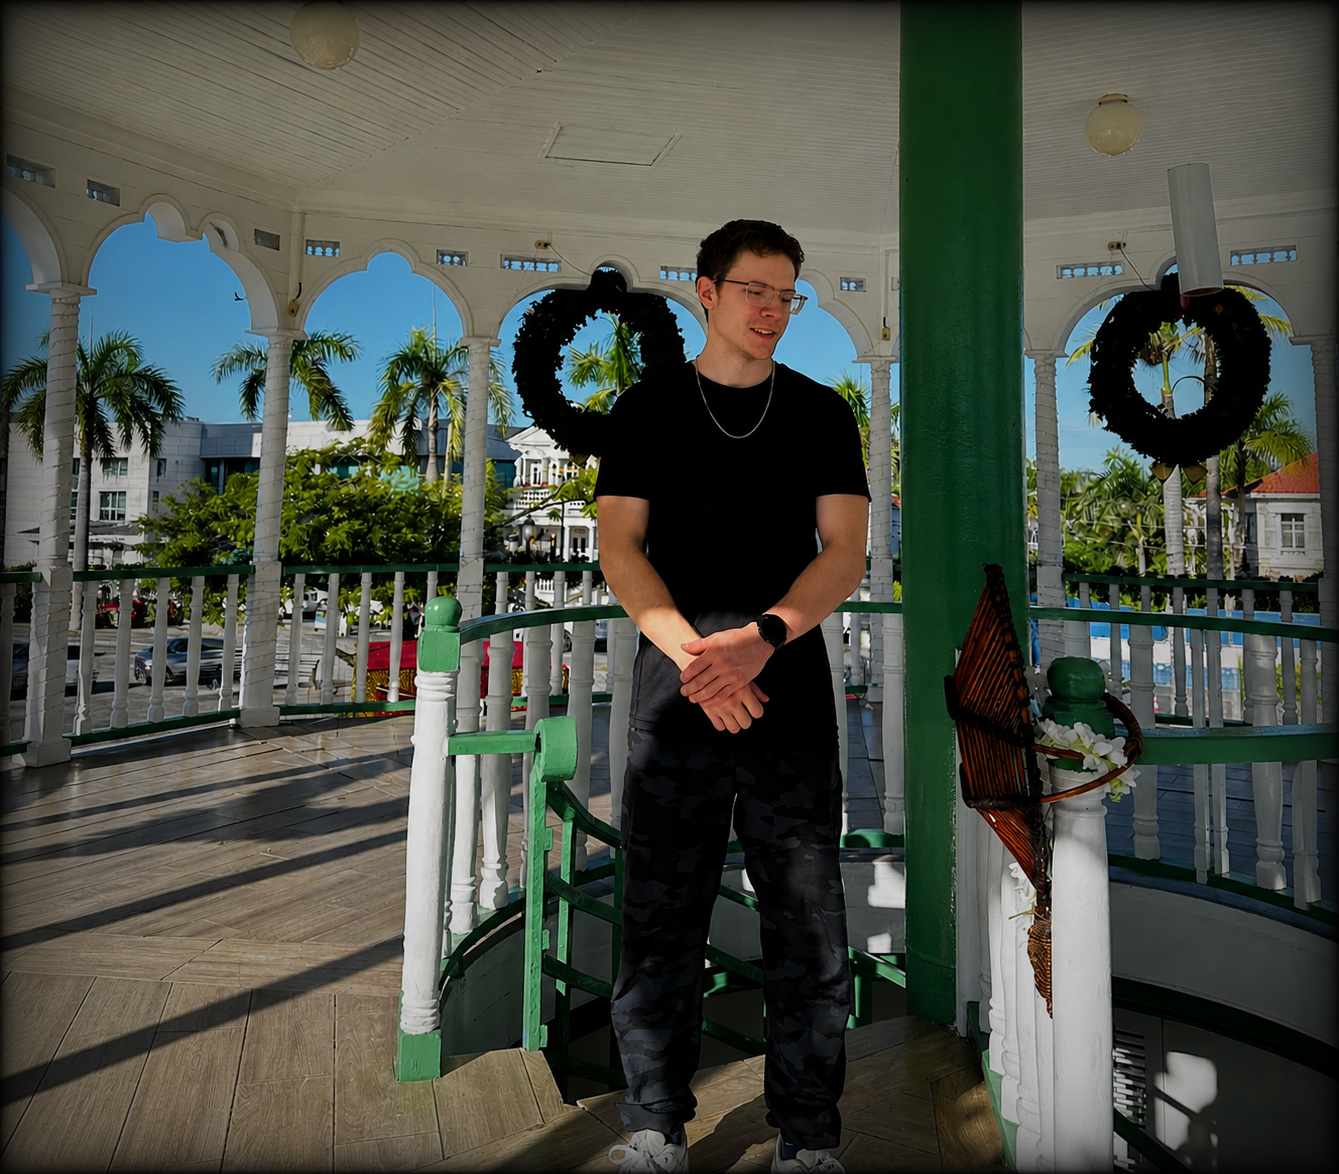
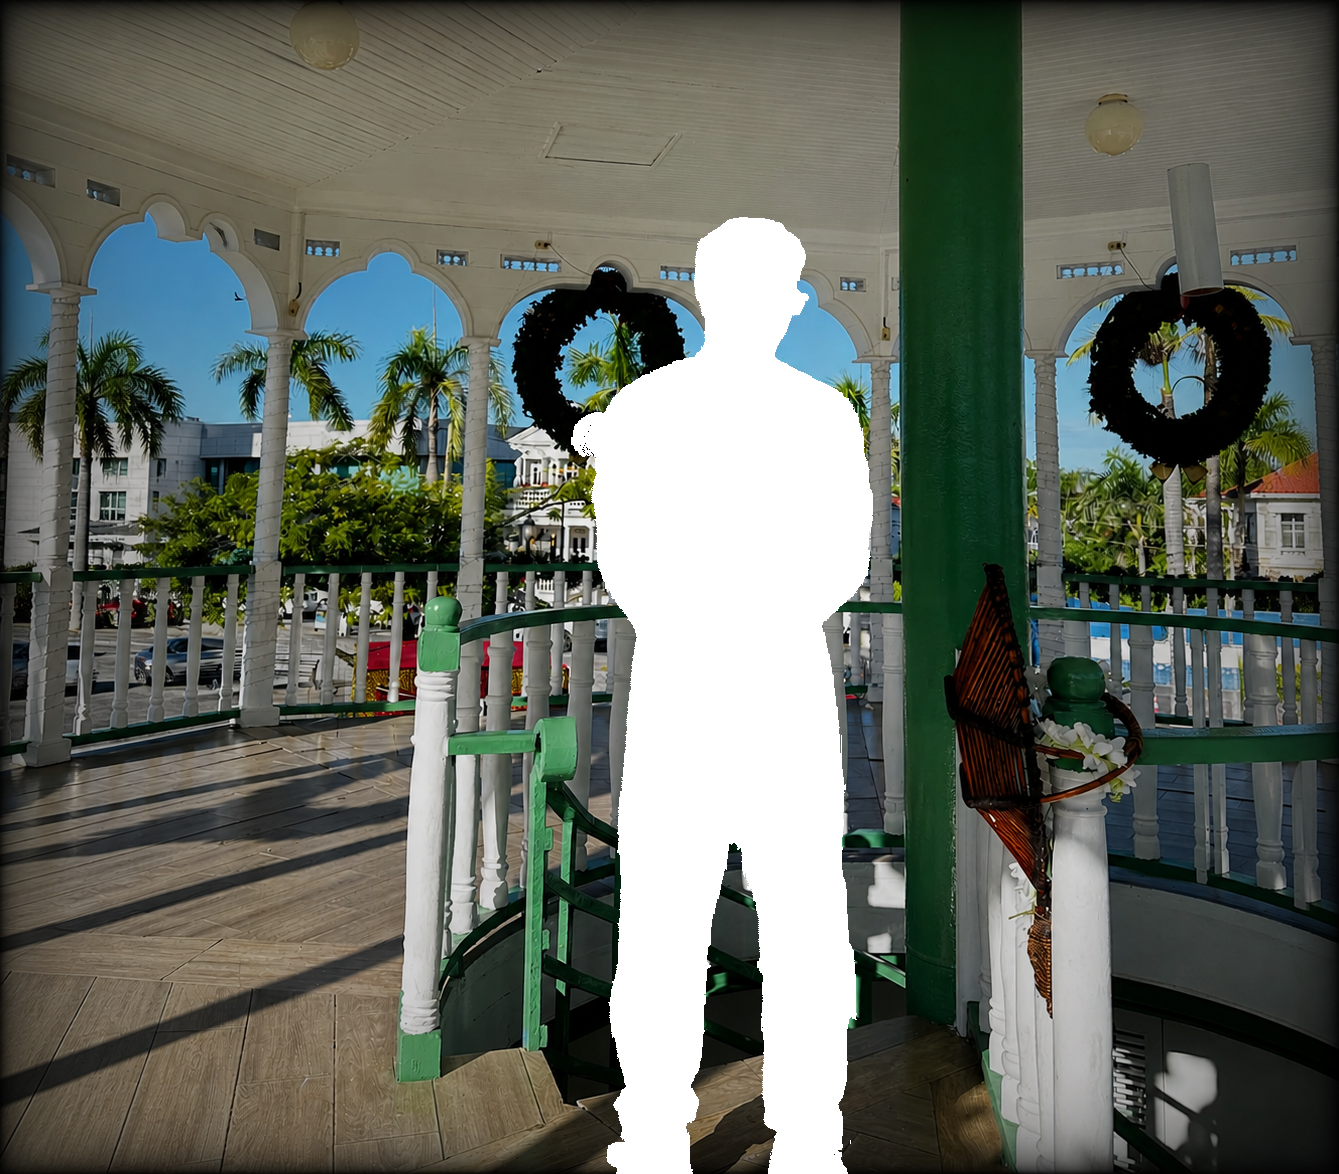
Align personal brand layers

Changed region(s): [[0.4287, 0.184, 0.6736, 1.0]]

diff --git a/src/components/PersonalBrand.tsx b/src/components/PersonalBrand.tsx
@@ -7,6 +7,7 @@ if (typeof window !== "undefined") gsap.registerPlugin(ScrollTrigger);
 
 export default function PersonalBrand() {
   const ref = useRef<HTMLElement>(null);
+  const imgRatio = 1174 / 1339;
 
   useEffect(() => {
     const ctx = gsap.context(() => {
@@ -57,73 +58,78 @@ export default function PersonalBrand() {
       ref={ref}
       data-nav="peach"
       className="relative w-screen left-1/2 -translate-x-1/2"
-      style={{ backgroundColor: "#0a0a0a", overflow: "visible", height: "calc(100vw * 0.876)" }}
+      style={{ backgroundColor: "#0a0a0a", overflow: "visible", height: `calc(100vw * ${imgRatio})` }}
     >
-      {/* z-1 — foto base */}
-      <img
-        src="/gsap2/him.png"
-        alt=""
-        aria-hidden
-        className="absolute left-1/2 top-0 z-[1] w-screen h-auto -translate-x-1/2 select-none pointer-events-none"
-      />
+      <div className="absolute inset-0">
+        {/* z-1 — foto base */}
+        <img
+          src="/gsap2/him.png"
+          alt=""
+          aria-hidden
+          className="absolute inset-0 z-[1] w-full h-full object-contain select-none pointer-events-none"
+        />
 
-      {/* z-2 — overlay oscuro (debajo del texto para mantener opacidad constante) */}
-      <img
-        src="/gsap2/him_contorno.png"
-        alt=""
-        aria-hidden
-        className="pb-oscuro absolute left-1/2 top-0 z-[2] w-screen h-auto -translate-x-1/2 pointer-events-none"
-      />
+        {/* z-2 — overlay oscuro (debajo del texto para mantener opacidad constante) */}
+        <img
+          src="/gsap2/him_contorno_aligned.png"
+          alt=""
+          aria-hidden
+          className="pb-oscuro absolute inset-0 z-[2] w-full h-full object-contain pointer-events-none"
+        />
 
-      {/* z-3 — texto SANTICHILL: cruza horizontalmente a la altura de la cabeza */}
-      <div
-        className="absolute inset-x-0 z-[3] flex justify-center pointer-events-none select-none"
-        style={{ top: "20%" }}
-      >
-        <div className="pb-text" style={{ whiteSpace: "nowrap" }}>
-          <span
-            style={{
-              fontSize: "clamp(5rem, 17vw, 16rem)",
-              letterSpacing: "-0.045em",
-              color: "#ffbc95",
-              fontWeight: 900,
-              lineHeight: 1,
-              textShadow: "0 0 100px rgba(255,188,149,0.22)",
-              display: "inline-block",
-            }}
-          >
-            SANTICHILL
-          </span>
-        </div>
+        {/* z-4 — recorte de la persona (texto pasa por detras de la cabeza) */}
+        <img
+          src="/gsap2/him_no_bg_aligned.png"
+          alt=""
+          aria-hidden
+          className="absolute inset-0 z-[4] w-full h-full object-contain select-none pointer-events-none"
+        />
       </div>
 
-      {/* z-4 — recorte de la persona (texto pasa por detras de la cabeza) */}
-      <img
-        src="/gsap2/him_no_bg.png"
-        alt=""
-        aria-hidden
-        className="absolute left-1/2 top-0 z-[4] w-screen h-auto -translate-x-1/2 select-none pointer-events-none"
-      />
+      {/* texto y animaciones solo en la mitad superior */}
+      <div className="absolute inset-x-0 top-0 z-[5] h-1/2 pointer-events-none select-none">
+        {/* z-3 — texto SANTICHILL: cruza horizontalmente a la altura de la cabeza */}
+        <div
+          className="absolute inset-x-0 z-[3] flex justify-center"
+          style={{ top: "20%" }}
+        >
+          <div className="pb-text" style={{ whiteSpace: "nowrap" }}>
+            <span
+              style={{
+                fontSize: "clamp(5rem, 17vw, 16rem)",
+                letterSpacing: "-0.045em",
+                color: "#ffbc95",
+                fontWeight: 900,
+                lineHeight: 1,
+                textShadow: "0 0 100px rgba(255,188,149,0.22)",
+                display: "inline-block",
+              }}
+            >
+              SANTICHILL
+            </span>
+          </div>
+        </div>
 
-      {/* z-5 — texto superior: siempre encima del sujeto */}
-      <div
-        className="absolute inset-x-0 z-[5] flex justify-center pointer-events-none select-none"
-        style={{ top: "72%" }}
-      >
-        <div className="pb-text-top" style={{ whiteSpace: "nowrap" }}>
-          <span
-            style={{
-              fontSize: "clamp(2.8rem, 10vw, 8.5rem)",
-              letterSpacing: "-0.03em",
-              color: "#ffbc95",
-              fontWeight: 700,
-              lineHeight: 1,
-              textShadow: "0 0 80px rgba(255,188,149,0.18)",
-              display: "inline-block",
-            }}
-          >
-            CREADOR DIGITAL
-          </span>
+        {/* z-5 — texto superior: siempre encima del sujeto */}
+        <div
+          className="absolute inset-x-0 z-[5] flex justify-center"
+          style={{ top: "72%" }}
+        >
+          <div className="pb-text-top" style={{ whiteSpace: "nowrap" }}>
+            <span
+              style={{
+                fontSize: "clamp(2.8rem, 10vw, 8.5rem)",
+                letterSpacing: "-0.03em",
+                color: "#ffbc95",
+                fontWeight: 700,
+                lineHeight: 1,
+                textShadow: "0 0 80px rgba(255,188,149,0.18)",
+                display: "inline-block",
+              }}
+            >
+              CREADOR DIGITAL
+            </span>
+          </div>
         </div>
       </div>
 
